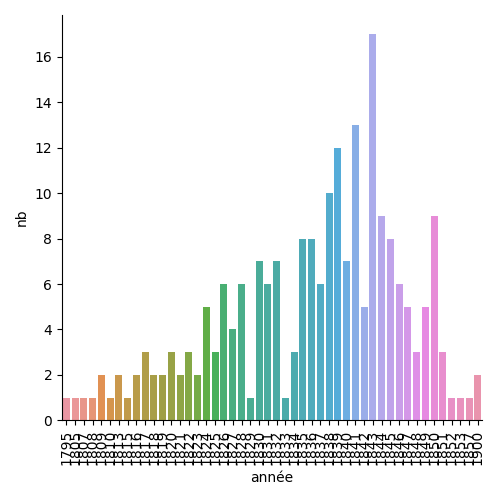
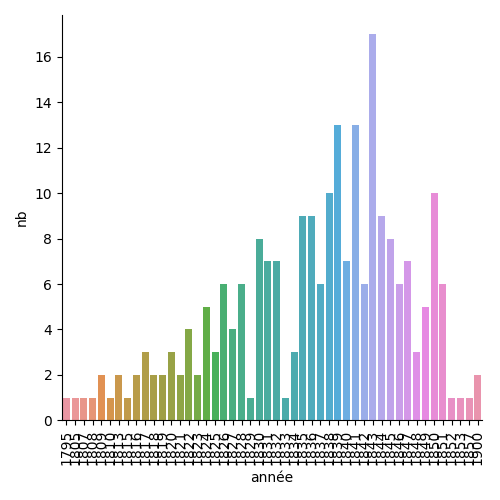
nouvelles version, au vu de la fonction occupation

diff --git a/rapport/Tout_savoir_des_communard_e_s_de_wikidata.md b/rapport/Tout_savoir_des_communard_e_s_de_wikidata.md
@@ -6,22 +6,22 @@ Fait par Gabriel-le avec les éléments connues dans wikidata le 9 mars 2022.
 - date de création du script : 9 mars 2022, 
 - dernière version : 11 mars 2022 
 
-- rapport généré le : 11/3/2022 à 18h37 
+- rapport généré le : 11/3/2022 à 22h30 
 ## Méthodologie 
 
 Wikidata est une base de données libre, liée à Wikipédia. Son remplissage est fait de façon collaborative. 
 
-Ce document est fait à partir des éléments s'y trouvants le 11/3/2022 à 18h37. 
+Ce document est fait à partir des éléments s'y trouvants le 11/3/2022 à 22h30. 
 
 Sont pris en compte toutes les personne dont le champs 'occupation' (P21) comprends la valeur 'communard' (Q1780490)'.
 ## Liste des personnes étudiées
-Simple liste des 236 personnes avec leur appellation d'usage dans wikidata. Par ordre alphabétique de l'item, le prénom le plus souvent.
+Simple liste des 249 personnes avec leur appellation d'usage dans wikidata. Par ordre alphabétique de l'item, le prénom le plus souvent.
 
-Achille Ballière, Adolf Rozwadowski, Adolphe Assi, Adolphe Clémence, Adrien Lejeune, Adèle Esquiros, Adélaïde Valentin, Albert Regnard, Albert Theisz, Alexandre Girault, Alexis Louis Trinquet, Alfred-Édouard Billioray, Alix Payen, Alphonse Humbert, Alphonse Lonclas, Amilcare Cipriani, Amélie Payen, André Bastelica, André Léo, André Slomszynski, Angelina Courcelles, Anna Pustowójtówna, Anne-Marie Ménand, Antoine Demay, Antonin Desfarges, Aristide Claris, Armand Antoine Jules Arnaud, Armand Félix Marie Jobbé-Duval, Arthur, Arthur Ranc, Auguste Adolphe Okolowicz, Auguste Blanqui, Auguste Durassier, Auguste Serraillier, Auguste Sicard, Auguste Viard, Auguste-Jean-Marie Vermorel, Augustin Avrial, Augustin Verdure, Baptiste Descamps, Benjamin Barré, Benoît Malon, Blanche Lefebvre, Blanche de Corbie, Béatrix Excoffon, Camille Bias, Camille Langevin, Charles Amouroux, Charles Beslay, Charles Delescluze, Charles Ferdinand Gambon, Charles Gérardin, Charles Ledroit, Charles Longuet, Charles Lullier, Charles Élie Ducoudray, Claude Dominique Napias, Claude Payet, Claude-Jules Duruof, Clovis Dupont, Clériot, Constant Marie, Constantin Kawecki, Coralie Chérelle, Céleste Hardouin, Dominique Régère, Edgar Monteil, Edmond-Alfred Goupy, Elisabeth Javelin, Eliska Vincent, Emmanuel Chauvière, Ernest Granger, Ernest Puget, Eugenio Defendi, Eugène Gérardin, Eugène Pottier, Eugène Protot, Eugène Razoua, Eugène Varlin, Eugène Vermersch, Eugénie Boulanger, Eugénie Chilly, Eulalie Papavoine, Florence Baruteau, Florence Van de Walle, Fornarina de Fonseca, Fortuné Henry, François Edmond Rattier, François Jourde, François-Charles Ostyn, François-Louis Parisel, Frédéric Cournet, Félix Pyat, Gabriel Ranvier, Galdric Verdaguer, Gaston Da Costa, Gaston Save, Georges Arnold, Georges Cavalier, Giovanni Defendi, Gustave Courbet, Gustave Flourens, Gustave Lefrançais, Gustave Maroteau, Gustave Paul Cluseret, Gustave Tridon, Henri Brissac, Henri Chouteau, Henri Mortier, Henri Payen, Henri Ranvier, Henri Rochefort, Henri Rochefort, Henry Bauër, Henry Louis Champy, Herminie Cadolle, Hortense David, Hortense Machu, Hubert Geresme, Jacques Louis Durand, Jarosław Dombrowski, Jean Allemane, Jean Baptiste Clément, Jean Charles Rouchy, Jean-Baptiste Chardon, Jean-Baptiste Noro, Jean-Jacques Pillot, Jean-Louis Pindy, Jean-Martial-Aminthe Dupont, Joseph Charlemont, Joséphine Marchais, Joséphine Michel Bocquin, Jules Allix, Jules Andrieu, Jules Bergeret, Jules Fontaine, Jules Honoré Vinot, Jules Joffrin, Jules Martelet, Jules Miot, Jules Montels, Jules Vallès, Jules-Ferdinand Baulard, Jules-Nicolas-André Babick, Jules-Paul Johannard, Julie Magot, Julien Fruneau, Kswaiera Ladojska Kawecka, Laure Boulant, Lise Bourette, Louis Rossel, Louis-Augustin Rogeard, Louis-Charles Maljournal, Louis-Denis Chalain, Louis-Guillaume Debock, Louis-Simon Dereure, Louise Bonenfant, Louise Bonnehaut, Louise Boutin, Louise Laffitte, Louise Michel, Louise Neckbecker, Louise Talbot, Lucie Bocquin, Lucie Maris, Lucien Henry, Lucienne Prins, Léo Frankel, Léo Melliet, Léontine Suétens, Marc-Amédée Gromier, Marguerite Lachaise, Marie Catherine Rogissart, Marie Christine Dargent, Marie Ferré, Marie La Cécilia, Marie Lecourt, Marie Manière, Marie Mercier, Marie-Jeanne Moussu, María Pantazí, Maurice Garreau, Maurice Garreau, Maxime Lisbonne, Maxime Vuillaume, Mina Puccinelli, Napoléon Gaillard, Napoléon La Cécilia, Nathalie Lemel, Noémi Reclus, Olivier Souêtre, Paschal Grousset, Paul Antoine Brunel, Paul Ferrat, Paul Martine, Paul Milliet, Paul Philémon Rastoul, Paule Minck, Philéas Félix Bermond, Pierre Bourgeois, Pierre Denis, Pierre Laffitte, Pierre Vésinier, Pilotell, Père Tanguy, Raoul Rigault, Raoul Urbain, Reine Cottin, Robert Caze, Sofia Kovalevskaïa, Sophie Poirier, Stanislas Xavier Pourille, Théophile Ferré, Tony Moilin, Ulysse Parent, Valentin Bouteilhe, Victoire Tinayre, Victor Clément, Victor Pilhes, Victor Renou, Victorine Brocher, Victorine Eudes, Victorine Gorget, Walery Wroblewski, colonel Delorme, sœurs Clémence, Édouard Moreau, Édouard Vaillant, Élisabeth Dmitrieff, Élisabeth Rétiffe, Élisée Reclus, Émile Eudes, Émile Léopold Clément, Émile Oudet, Émile-Victor Duval, Émilie Noro
+Achille Ballière, Adolf Rozwadowski, Adolphe Assi, Adolphe Clémence, Adrien Lejeune, Adèle Esquiros, Adélaïde Valentin, Albert Regnard, Albert Theisz, Alexandre Girault, Alexis Louis Trinquet, Alfred-Édouard Billioray, Alix Payen, Alix Payen, Alphonse Humbert, Alphonse Lonclas, Amilcare Cipriani, Amélie Payen, André Bastelica, André Léo, André Slomszynski, Angelina Courcelles, Anna Pustowójtówna, Anne-Marie Ménand, Antoine Demay, Antonin Desfarges, Aristide Claris, Armand Antoine Jules Arnaud, Armand Félix Marie Jobbé-Duval, Arthur, Arthur Ranc, Auguste Adolphe Okolowicz, Auguste Blanqui, Auguste Durassier, Auguste Serraillier, Auguste Sicard, Auguste Viard, Auguste-Jean-Marie Vermorel, Augustin Avrial, Augustin Verdure, Baptiste Descamps, Benjamin Barré, Benoît Malon, Blanche Lefebvre, Blanche de Corbie, Béatrix Excoffon, Camille Bias, Camille Langevin, Charles Amouroux, Charles Beslay, Charles Delescluze, Charles Ferdinand Gambon, Charles Gérardin, Charles Ledroit, Charles Longuet, Charles Lullier, Charles Élie Ducoudray, Claude Dominique Napias, Claude Payet, Claude-Jules Duruof, Clovis Dupont, Clériot, Constant Marie, Constantin Kawecki, Coralie Chérelle, Céleste Hardouin, Dominique Régère, Edgar Monteil, Edmond-Alfred Goupy, Elisabeth Javelin, Eliska Vincent, Emmanuel Chauvière, Ernest Granger, Ernest Puget, Eugenio Defendi, Eugène Gérardin, Eugène Pottier, Eugène Protot, Eugène Razoua, Eugène Varlin, Eugène Vermersch, Eugénie Boulanger, Eugénie Chilly, Eulalie Papavoine, Florence Baruteau, Florence Van de Walle, Fornarina de Fonseca, Fortuné Henry, François Edmond Rattier, François Jourde, François-Charles Ostyn, François-Louis Parisel, Frédéric Cournet, Félix Pyat, Gabriel Ranvier, Galdric Verdaguer, Gaston Da Costa, Gaston Save, Georges Arnold, Georges Cavalier, Giovanni Defendi, Gustave Courbet, Gustave Flourens, Gustave Lefrançais, Gustave Maroteau, Gustave Paul Cluseret, Gustave Tridon, Henri Brissac, Henri Chouteau, Henri Mortier, Henri Payen, Henri Ranvier, Henri Rochefort, Henri Rochefort, Henri Rochefort, Henri Rochefort, Henry Bauër, Henry Louis Champy, Herminie Cadolle, Hortense David, Hortense Machu, Hubert Geresme, Jacques Louis Durand, Jarosław Dombrowski, Jean Allemane, Jean Baptiste Clément, Jean Charles Rouchy, Jean-Baptiste Chardon, Jean-Baptiste Noro, Jean-Jacques Pillot, Jean-Louis Pindy, Jean-Martial-Aminthe Dupont, Joseph Charlemont, Joséphine Marchais, Joséphine Michel Bocquin, Jules Allix, Jules Andrieu, Jules Bergeret, Jules Fontaine, Jules Honoré Vinot, Jules Joffrin, Jules Martelet, Jules Miot, Jules Montels, Jules Vallès, Jules-Ferdinand Baulard, Jules-Nicolas-André Babick, Jules-Paul Johannard, Julie Magot, Julien Fruneau, Kswaiera Ladojska Kawecka, Laure Boulant, Lise Bourette, Louis Rossel, Louis-Augustin Rogeard, Louis-Charles Maljournal, Louis-Denis Chalain, Louis-Guillaume Debock, Louis-Guillaume Debock, Louis-Simon Dereure, Louise Bonenfant, Louise Bonnehaut, Louise Boutin, Louise Laffitte, Louise Michel, Louise Neckbecker, Louise Talbot, Lucie Bocquin, Lucie Maris, Lucien Henry, Lucienne Prins, Léo Frankel, Léo Melliet, Léontine Suétens, Marc-Amédée Gromier, Marguerite Lachaise, Marie Catherine Rogissart, Marie Christine Dargent, Marie Ferré, Marie La Cécilia, Marie Lecourt, Marie Manière, Marie Mercier, Marie-Jeanne Moussu, María Pantazí, Maurice Garreau, Maurice Garreau, Maurice Garreau, Maurice Garreau, Maxime Lisbonne, Maxime Vuillaume, Mina Puccinelli, Napoléon Gaillard, Napoléon La Cécilia, Napoléon La Cécilia, Nathalie Lemel, Noémi Reclus, Olivier Souêtre, Paschal Grousset, Paul Antoine Brunel, Paul Ferrat, Paul Martine, Paul Milliet, Paul Philémon Rastoul, Paule Minck, Philéas Félix Bermond, Pierre Bourgeois, Pierre Denis, Pierre Laffitte, Pierre Vésinier, Pilotell, Père Tanguy, Raoul Rigault, Raoul Urbain, Reine Cottin, Robert Caze, Sofia Kovalevskaïa, Sophie Poirier, Stanislas Xavier Pourille, Théophile Ferré, Tony Moilin, Ulysse Parent, Valentin Bouteilhe, Victoire Tinayre, Victor Clément, Victor Pilhes, Victor Renou, Victorine Brocher, Victorine Brocher, Victorine Eudes, Victorine Gorget, Walery Wroblewski, Walery Wroblewski, colonel Delorme, colonel Delorme, sœurs Clémence, Édouard Moreau, Édouard Vaillant, Élisabeth Dmitrieff, Élisabeth Dmitrieff, Élisabeth Dmitrieff, Élisabeth Dmitrieff, Élisabeth Rétiffe, Élisée Reclus, Émile Eudes, Émile Léopold Clément, Émile Oudet, Émile-Victor Duval, Émilie Noro
 ## Répartition par genre
 Dans wikidata, on peut remplir le 'sexe ou genre' (P21) pour les personnes. Certaines personnes peuvent ne pas avoir ce champs renseigné.
                     Voyons comment se répartissent selon leur genre les communard·e·s ayant une fiche dans wikidata.
-Sur 236, il y a 69 femmes, 165 hommes, et 2 personne dont le genre n'est pas renseigné ou autre
+Sur 249, il y a 74 femmes, 173 hommes, et 2 personne dont le genre n'est pas renseigné ou autre
 ![camembert par genre](camembert_genre.png)
 ## Répartition par année de naissance
 Dans wikidata, on peut remplir la 'date de naissance' (P569) pour les personnes. Certaines personnes peuvent ne pas avoir ce champs renseigné.
@@ -36,22 +36,24 @@ Comptons par lieux combien de communard·e·s (ayant une fiche dans wikidata) y 
  Trie par nombre descoissant de personne et ordre inverse de l'alphabet
 |Ville de naissance|Nombre de personne| 
  |---|---| 
-|Paris|36| 
+|Paris|39| 
+|Tours|7| 
 |Bordeaux|5| 
-|Tours|4| 
+|Raïon de Toropets|4| 
+|Lille|4| 
 |Vierzon|3| 
 |Lyon|3| 
-|Lille|3| 
+|Le Mans|3| 
+|http://www.wikidata.org/.well-known/genid/8e5877e6412ebc87fc17ddc1e9570200|2| 
 |Reims|2| 
 |Poitiers|2| 
 |Nîmes|2| 
-|Le Mans|2| 
+|Jaloudok|2| 
 |Issoudun|2| 
 |Chartres|2| 
 |Brest|2| 
 |Bastia|2| 
 |5e arrondissement de Paris|2| 
-|http://www.wikidata.org/.well-known/genid/8e5877e6412ebc87fc17ddc1e9570200|1| 
 |http://www.wikidata.org/.well-known/genid/292d283267c3b9e29b349d9cca6d4ffa|1| 
 |ancien 9e arrondissement de Paris|1| 
 |Vézelise|1| 
@@ -89,7 +91,6 @@ Comptons par lieux combien de communard·e·s (ayant une fiche dans wikidata) y 
 |Romilly-sur-Seine|1| 
 |Revel|1| 
 |Remilly-Wirquin|1| 
-|Raïon de Toropets|1| 
 |Pézenas|1| 
 |Péronne|1| 
 |Puget-Théniers|1| 
@@ -128,7 +129,6 @@ Comptons par lieux combien de communard·e·s (ayant une fiche dans wikidata) y 
 |La Charité-sur-Loire|1| 
 |Jytomyr|1| 
 |Justine-Herbigny|1| 
-|Jaloudok|1| 
 |Issoire|1| 
 |Gignac|1| 
 |Gap|1| 
@@ -186,3 +186,12 @@ Comptons par lieux combien de communard·e·s (ayant une fiche dans wikidata) y 
 |Angers|1| 
 |Albi|1| 
 
+## Quelles étaient les occupations des communard·e·s ?
+Dans wikidata, on peut remplir la 'occupation' (P106) pour les personnes. Cela correspond approximativement à une profession. 
+C'est aussi un élément marquable. Ainsi le champs occupation peut inclure communard, c'est d'ailleurs par ce champs que l'on a fait l'extrait des personnes. 
+
+Voyons comment se répartissent selon leur occupation les communard·e·s ayant une fiche dans wikidata. 
+
+Pour facilité la lecture, les occupation exercé par une seule personne sont dans une liste, celels par plusieurs personnes dans un graphique.
+![barres par occupation](barre_occupation.png)
+Maçons de la Creuse, artilleur, artisan, artiste, artiste graphique, assureur, astronome, autobiographe, aérostier, boxeur, bronzier, caissier de banque, caricaturiste, cartographe, chapelier, charpentier, chaudronnier, cheminot, chercheur, chimiste, clerc de notaire, collectionneur, collectionneur d'œuvres d'art, commerçant, commissaire-priseur, conseiller municipal, correcteur, corsetier, coutelier, critique dramatique, cuisinier, directeur d'école, entraîneur de boxe, entrepreneur, fabricante de casquette, femme de lettres, fonctionnaire, fondeur, franc-tireur, gouvernante, géographe, haut fonctionnaire, historien, homme de lettres, ingénieur des mines, intellectuel, journaliste d'opinion, lingier, lingère, marchand d'art, maroquinier, mathématicien, maçon, maître d'armes, maître d'école, menuisier, militant politique, orfèvre, pamphlétaire, paramédic, parfumeur, passementier ou passementière, peintre sur porcelaine, personnalité du monde des affaires, pharmacien, physicien, professeur, professeur d'université, professeur des écoles, prostitué, pédagogue, restaurateur, sculpteur, tailleur de pierre, universitaire, vannier, vendeur, verrier, vétérinaire, écrivain de science-fiction
